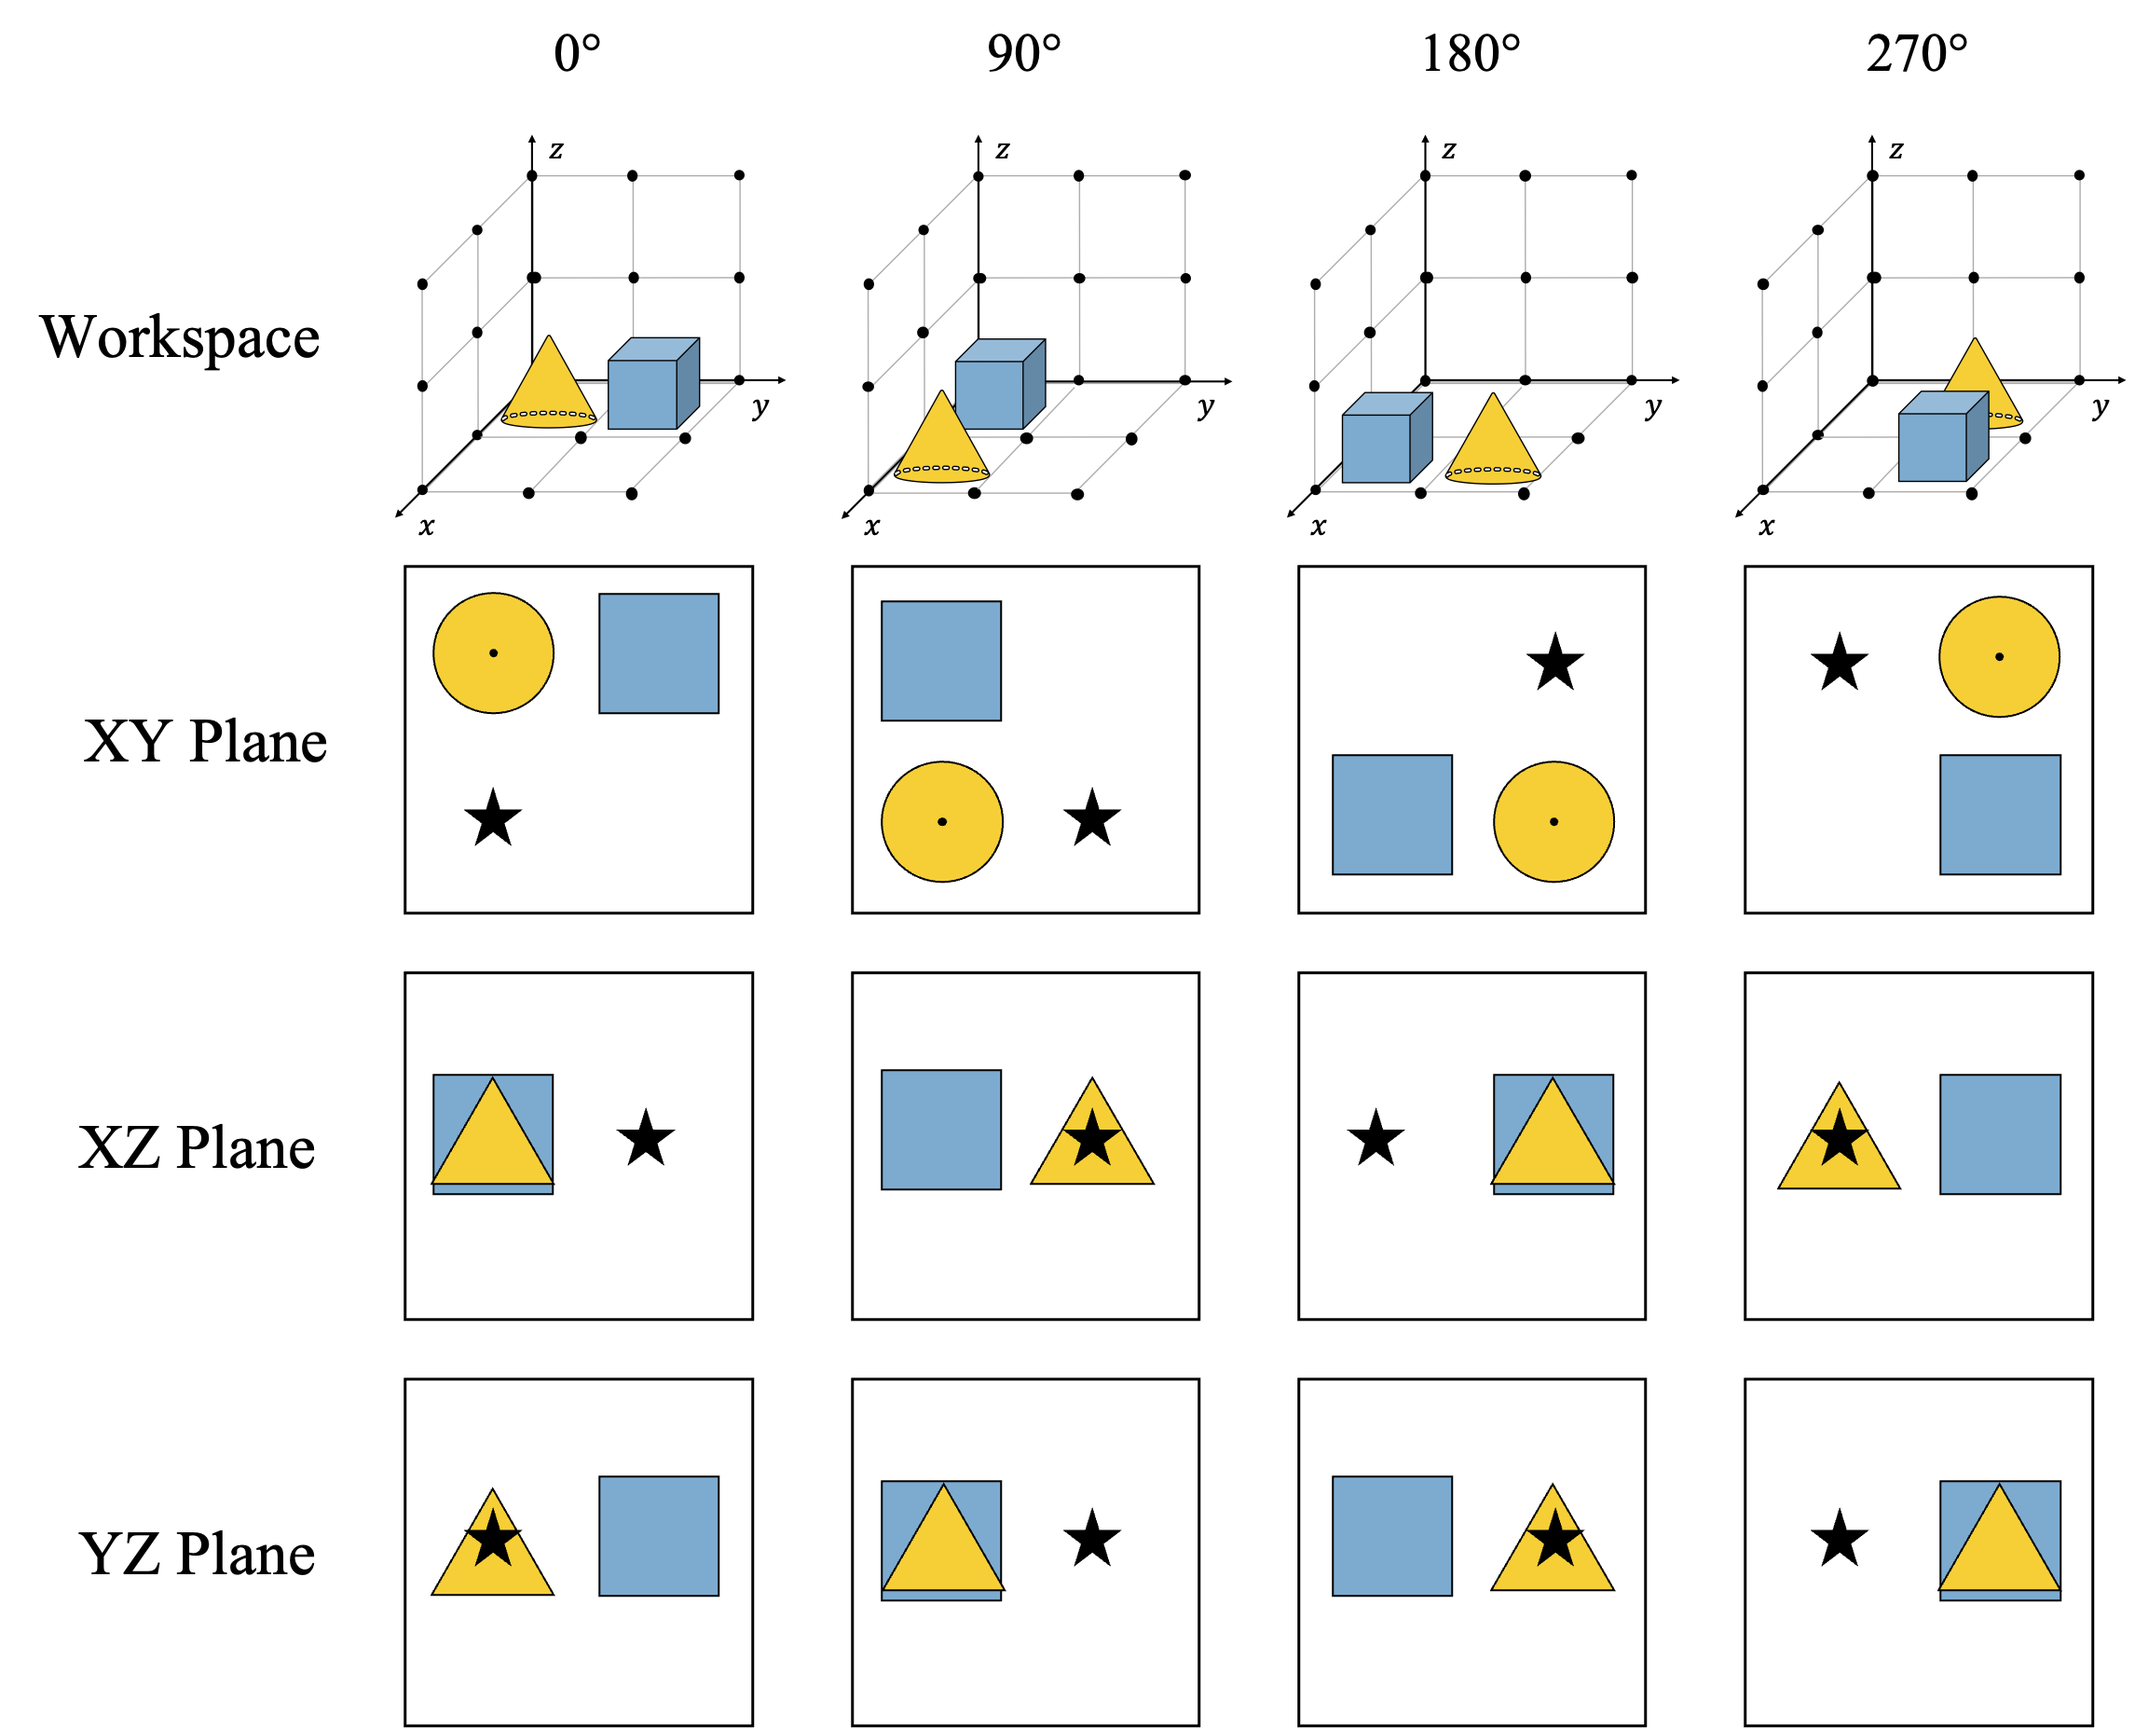
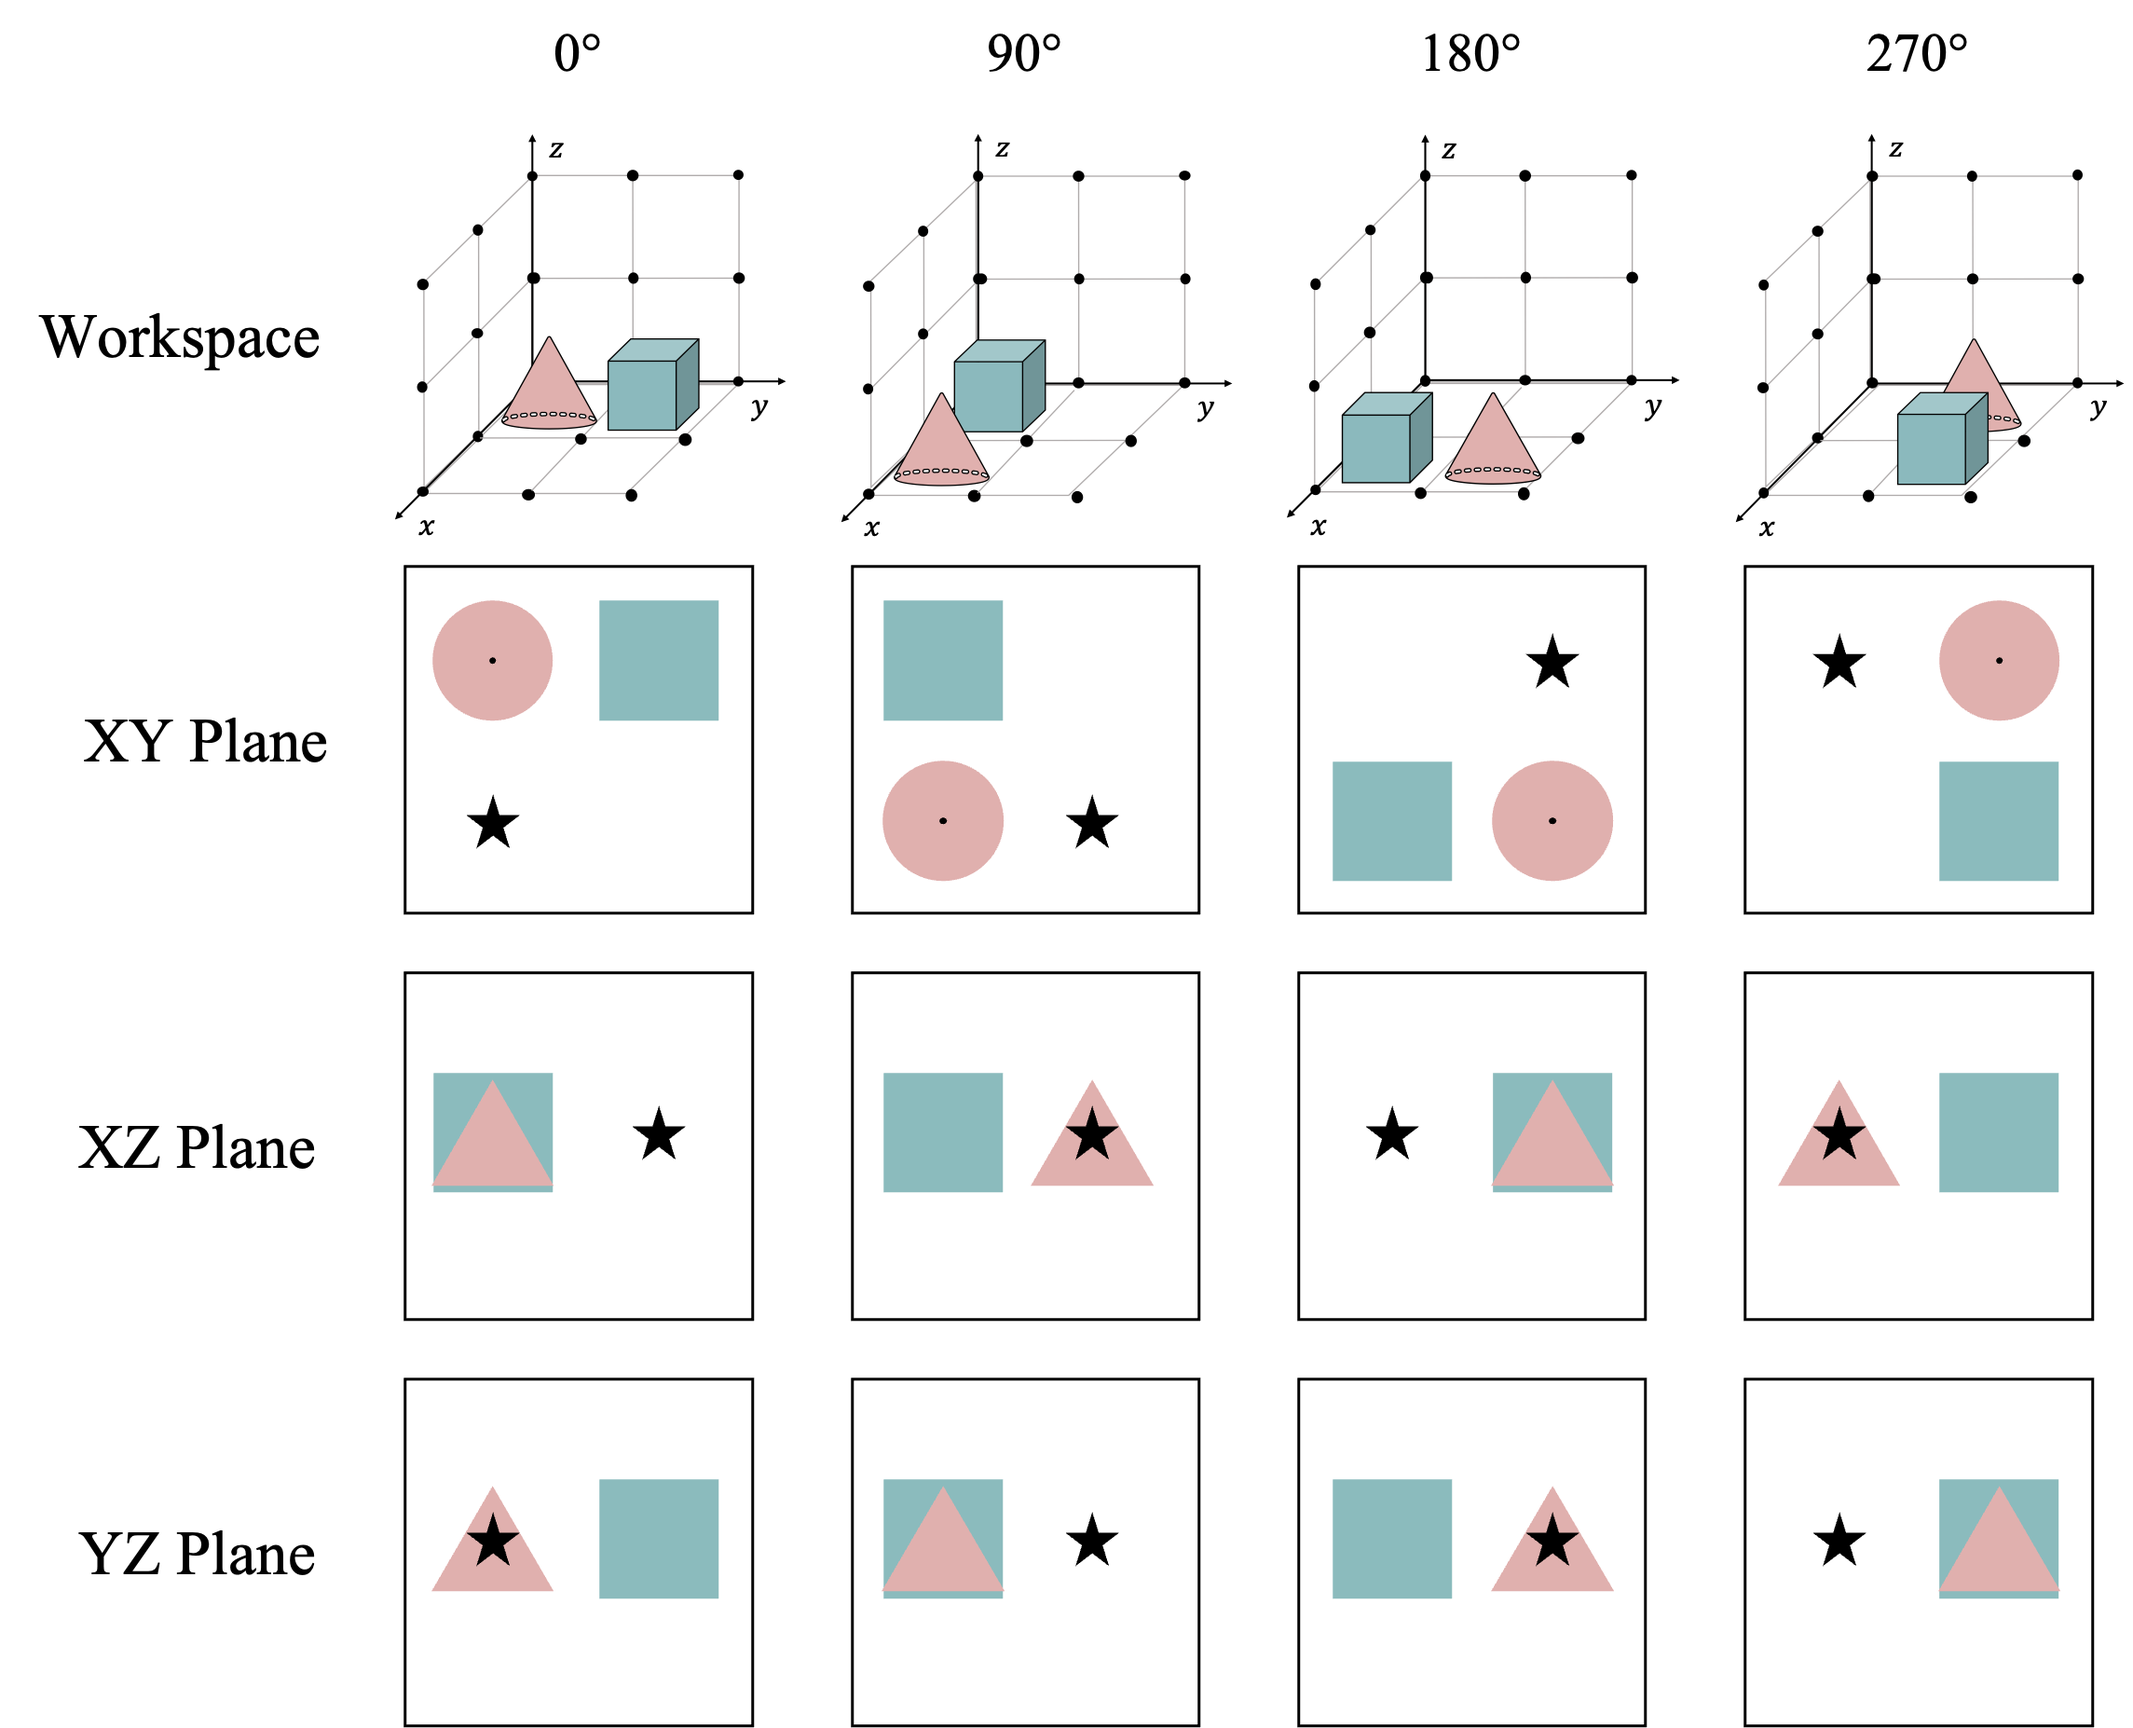
triequi.png

diff --git a/index.html b/index.html
@@ -374,7 +374,7 @@
       <div class="container is-max-desktop">
         <div class="columns is-centered">
           <div class="column has-text-centered">
-            <h1 class="title is-1 publication-title">
+            <h1 class="title is-1 publication-title" style="color: #8BB8BD;">
               Equivariant Volumetric Grasping
             </h1>
 
@@ -457,9 +457,9 @@
       </div>
       <div class="content has-text-justified">
           <p>
-            This figure considers a workspace that contains a yellow cone and a blue box. 
+            This figure considers a workspace that contains a pink cone and a blue box. 
             As the workspace rotates by increments of 90°, the XY plane also rotates accordingly, but the XZ and YZ planes transform differently: Every time the workspace rotates 90°, the YZ plane becomes the previous XZ plane, and the XZ plane becomes a flipped copy of the previous YZ plane. 
-            This observation forms a key intuition of our paper. Let us consider a feature queried at the point located by the star in the figure. Observing the XZ and YZ planes, we see that, for all rotations of the scene, the query point always points at no object at all in one plane, and at the yellow cone on the other plane. 
+            This observation forms a key intuition of our paper. Let us consider a feature queried at the point located by the star in the figure. Observing the XZ and YZ planes, we see that, for all rotations of the scene, the query point always points at no object at all in one plane, and at the pink cone on the other plane. 
             Thus, a <em>sum</em> of matching features in the XZ and YZ planes is <em>invariant</em> to C4 transformation. Since the figure above lists C4 transformations exhaustively, this observation is in fact a general rule, which defines the tri-plane feature transformation under C4 group actions. 
           </p>
         </div>
